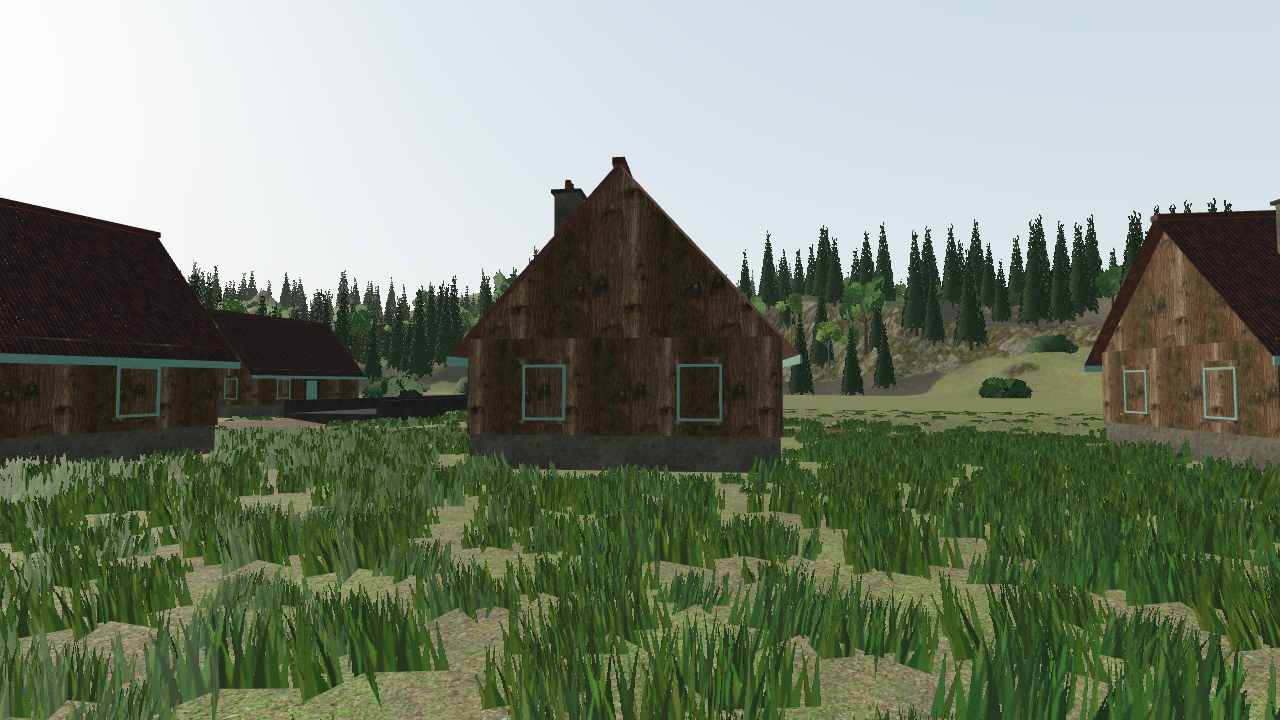
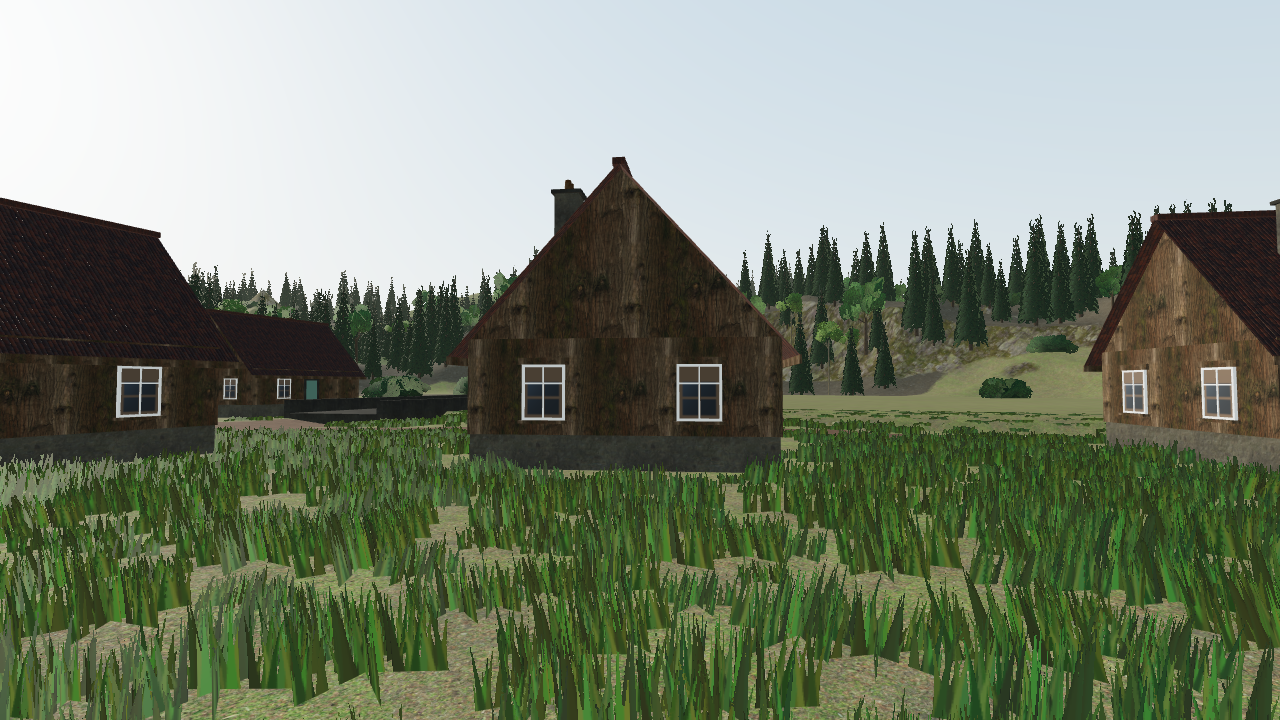
WIP buildings + forest shots

diff --git a/src/world/buildings.js b/src/world/buildings.js
@@ -67,7 +67,7 @@ export function buildStructures(mb, scene, terrain) {
     for (let f = 0; f < floors; f++) for (let i = 0; i < n; i++) {
       const t = -len / 2 + (i + 0.5) * (len / n); if (skipDoor && f === 0 && i === Math.floor(n / 2)) continue;
       const small = b.style === 'desert'; const ww = small ? 0.8 : 1.0, wh = small ? 1.0 : 1.3; const y = H0 + f * 3 + 1.6;
-      const off = (axis === 'x' ? b.w / 2 : b.d / 2) + 0.03;
+      const off = (axis === 'x' ? b.w / 2 : b.d / 2) + (b.style === 'cabin' ? 0.08 : 0.03);
       const put = (gg, dx, dy, dz, mat) => { if (axis === 'x') place(gg, b, sign * (off + dz), y + dy, t + dx, Math.PI / 2); else place(gg, b, t + dx, y + dy, sign * (off + dz), 0); B.add(mat, gg); };
       const broken = b.damage && r.next() < 0.3;
       put(boxUV(ww, wh, 0.06, 1), 0, 0, 0, broken ? 'dark' : 'window'); // recessed glazing
@@ -156,7 +156,7 @@ export function buildStructures(mb, scene, terrain) {
       const rc = boxUV(0.32, 0.18, dd + 0.9, 1); place(rc, b, 0, H + R + 0.05, 0, ry); B.add(b.style === 'cabin' || b.barn ? 'slate' : 'roof', rc);
       for (const sg of [-1, 1]) { const ex = sg * (ww / 2 + 0.45); const ey = H - 0.45 * R / (ww / 2); const fa = boxUV(0.05, 0.22, dd + 0.9, 1); const gu = new THREE.CylinderGeometry(0.07, 0.07, dd + 0.9, 6); gu.rotateX(Math.PI / 2);
         if (ridgeZ) { place(fa, b, ex, ey - 0.08, 0); place(gu, b, ex + sg * 0.06, ey - 0.12, 0); } else { place(fa, b, 0, ey - 0.08, ex, Math.PI / 2); place(gu, b, 0, ey - 0.12, ex + sg * 0.06, Math.PI / 2); }
-        B.add('paintwood', fa); if (b.style !== 'cabin') B.add('metal', gu); }
+        B.add(b.style === 'cabin' ? 'wood' : 'paintwood', fa); if (b.style !== 'cabin') B.add('metal', gu); }
       if (!b.barn) { const cx = ridgeZ ? ww * 0.22 : dd * 0.3, cz = ridgeZ ? dd * 0.3 : ww * 0.22; const ch = boxUV(0.7, 2.0, 0.7, 1.5); place(ch, b, cx, H + R * 0.6 + 0.6, cz); B.add(wm === 'wood' ? 'stone' : wm, ch);
         const cap = boxUV(0.86, 0.1, 0.86, 1); place(cap, b, cx, H + R * 0.6 + 1.65, cz); B.add('castle', cap); for (const o of [-0.15, 0.15]) { const pot = new THREE.CylinderGeometry(0.09, 0.11, 0.35, 8); place(pot, b, cx + o, H + R * 0.6 + 1.85, cz); B.add('rust', pot); } }
       if (b.damage && r.next() < 0.6) { const hole = boxUV(r.range(1.2, 2.5), 0.1, r.range(1.2, 2.2), 1); place(hole, b, ridgeZ ? ww * 0.12 : 0, H + R * 0.55, ridgeZ ? 0 : ww * 0.12, ry, 0, ridgeZ ? Math.atan(R / (ww / 2)) : 0); B.add('dark', hole); }
